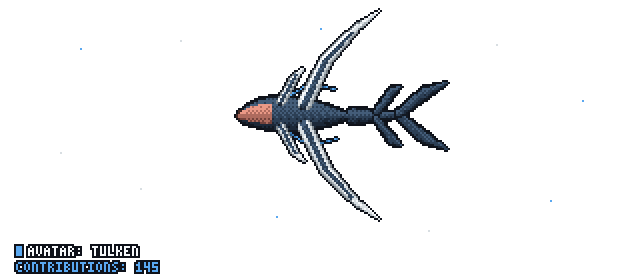
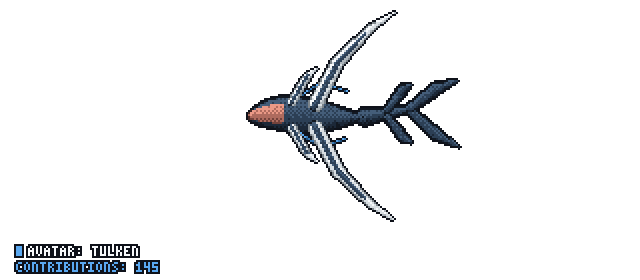
docs: regenerate all GIFs with detailed swimming movement and clean background

Changed region(s): [[0.3438, 0.0286, 0.7188, 0.8]]

diff --git a/tulkun/preview.html b/tulkun/preview.html
@@ -16,7 +16,7 @@
 </style>
 </head>
 <body>
-<header class="dark"><h1>@PramudithaN — Adult Male Bull (Hooked Hammer-Crest) (1870 commits)</h1></header>
+<header class="dark"><h1>@PramudithaN — Adult Male Bull (Hooked Hammer-Crest) (1067 commits)</h1></header>
 <section class="dark">
 <h2>GitHub Dark Mode</h2>
 <div class="images">
